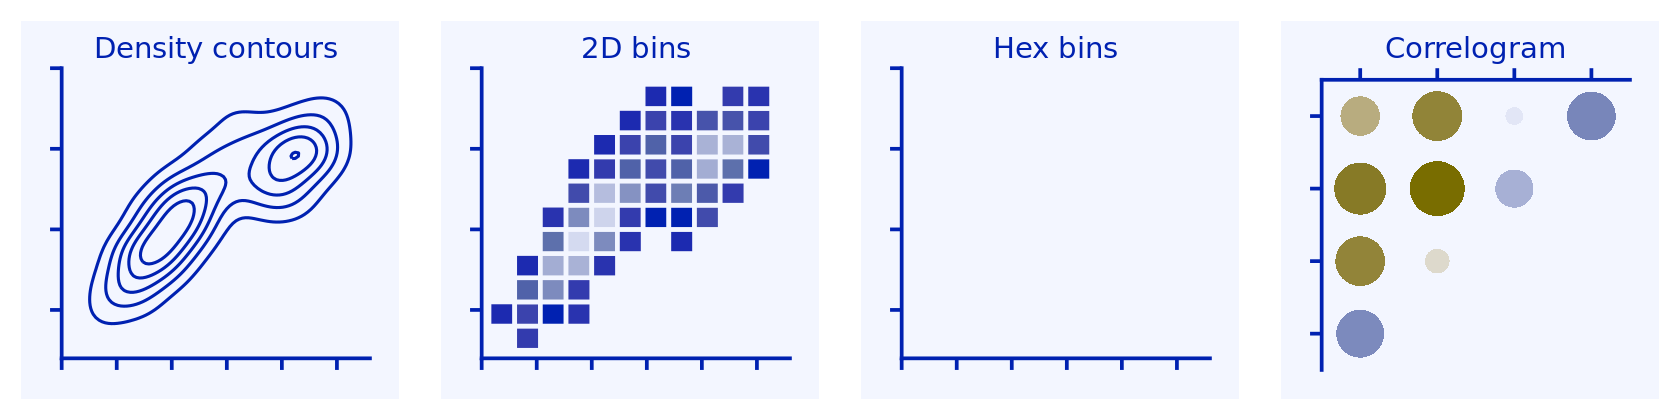
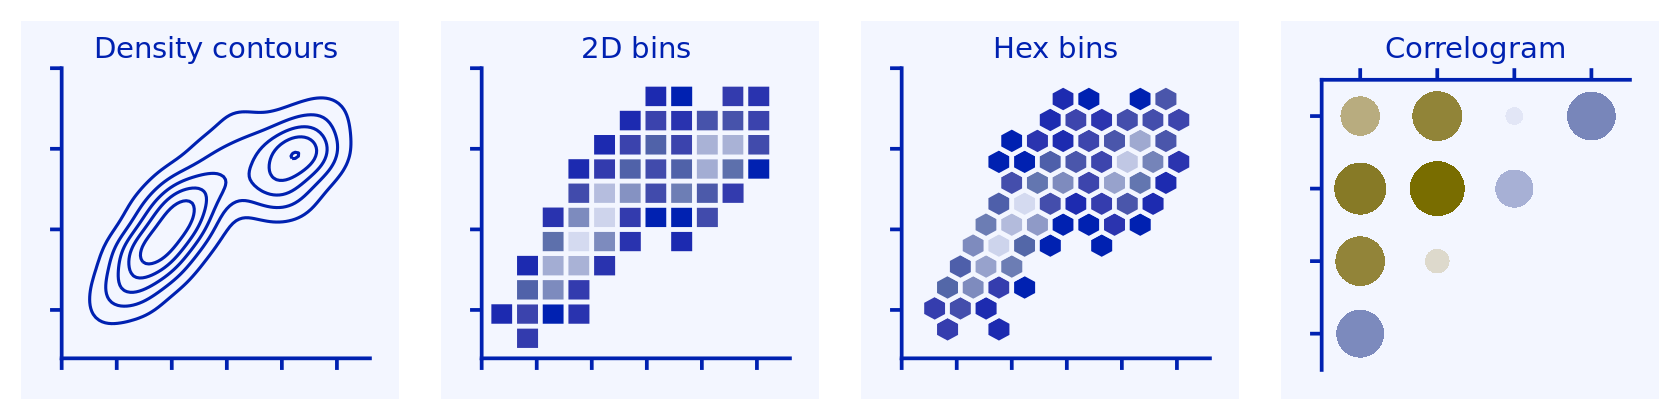
add more code and plots. add package hexbin.

Changed region(s): [[0.5262, 0.2167, 0.7119, 0.8048]]

diff --git a/content/publications/2018-09-11-a-book-review-fundamentals-of-data-visualization.html b/content/publications/2018-09-11-a-book-review-fundamentals-of-data-visualization.html
@@ -247,6 +247,45 @@ ggplot(temps_long, aes(x = date, y = temperature, color = location)) +
 <div id="handling-overlapping" class="section level2">
 <h2>Handling overlapping</h2>
 <p>This is one is something we deal every day, having to handle overlapping points. The author offers several solutions to this problem: partial transparency, jittering, both managed with careful selection of color and shading; binning data into rectangles and hexagons, using contour lines with shading when we deal with high density points.</p>
+<pre class="r"><code>p_mpg_jitter &lt;- ggplot(mpg, aes(y = cty, x = displ, color = drv, fill = drv)) +
+  geom_point(size = 3, shape = 21,
+             position = position_jitter(width = 0.01 * diff(range(mpg$displ)),
+                                        height = 0.01 * diff(range(mpg$cty)),
+                                        seed = 7384)) + 
+  ylab(&quot;fuel economy (mpg)&quot;) +
+  xlab(&quot;displacement (l)&quot;) +
+  scale_color_manual(values=c(&quot;#202020&quot;, &quot;#E69F00&quot;, &quot;#56B4E9&quot;), 
+                     name=&quot;drive train&quot;,
+                     breaks=c(&quot;f&quot;, &quot;r&quot;, &quot;4&quot;),
+                     labels=c(&quot;FWD&quot;, &quot;RWD&quot;, &quot;4WD&quot;)) +
+  scale_fill_manual(values=c(&quot;#20202080&quot;, &quot;#E69F0080&quot;, &quot;#56B4E980&quot;), 
+                     name=&quot;drive train&quot;,
+                     breaks=c(&quot;f&quot;, &quot;r&quot;, &quot;4&quot;),
+                     labels=c(&quot;FWD&quot;, &quot;RWD&quot;, &quot;4WD&quot;)) +
+  theme_dviz_open() +
+  theme(legend.position = c(.7, .8),
+        plot.margin = margin(3, 7, 3, 0))
+
+p_mpg_jitter</code></pre>
+<p><img src="/publications/2018-09-11-a-book-review-fundamentals-of-data-visualization_files/figure-html/mpg-cty-displ-jitter-1.png" width="577.5" style="display: block; margin: auto;" /></p>
+<pre class="r"><code># break points along the x axis
+breaks_x &lt;- c(&quot;0:00&quot;, &quot;6:00&quot;, &quot;12:00&quot;, &quot;18:00&quot;, &quot;24:00&quot;)
+
+p_flights_base &lt;- ggplot(flight_delays, aes(`departure time`, `departure delay (minutes)`)) + 
+  geom_abline(slope = 0, intercept = 0, color=&quot;grey80&quot;) +
+  scale_x_time(breaks = hm(breaks_x),
+               labels = breaks_x) +
+  theme_dviz_open() +
+  theme(plot.margin = margin(3, 7, 3, 0))
+
+
+p_flights_2d_bins &lt;- p_flights_base +
+  geom_bin2d(bins=50) +
+  scale_fill_continuous_sequential(palette = &quot;Blue-Yellow&quot;, l2 = 90, c2 = 20) +
+  theme(legend.position = c(0.85, .85))
+
+p_flights_2d_bins</code></pre>
+<p><img src="/publications/2018-09-11-a-book-review-fundamentals-of-data-visualization_files/figure-html/nycflights-2d-bins-1.png" width="630" style="display: block; margin: auto;" /></p>
 </div>
 <div id="managing-the-data-ink-ratio" class="section level2">
 <h2>Managing the data-ink ratio</h2>
